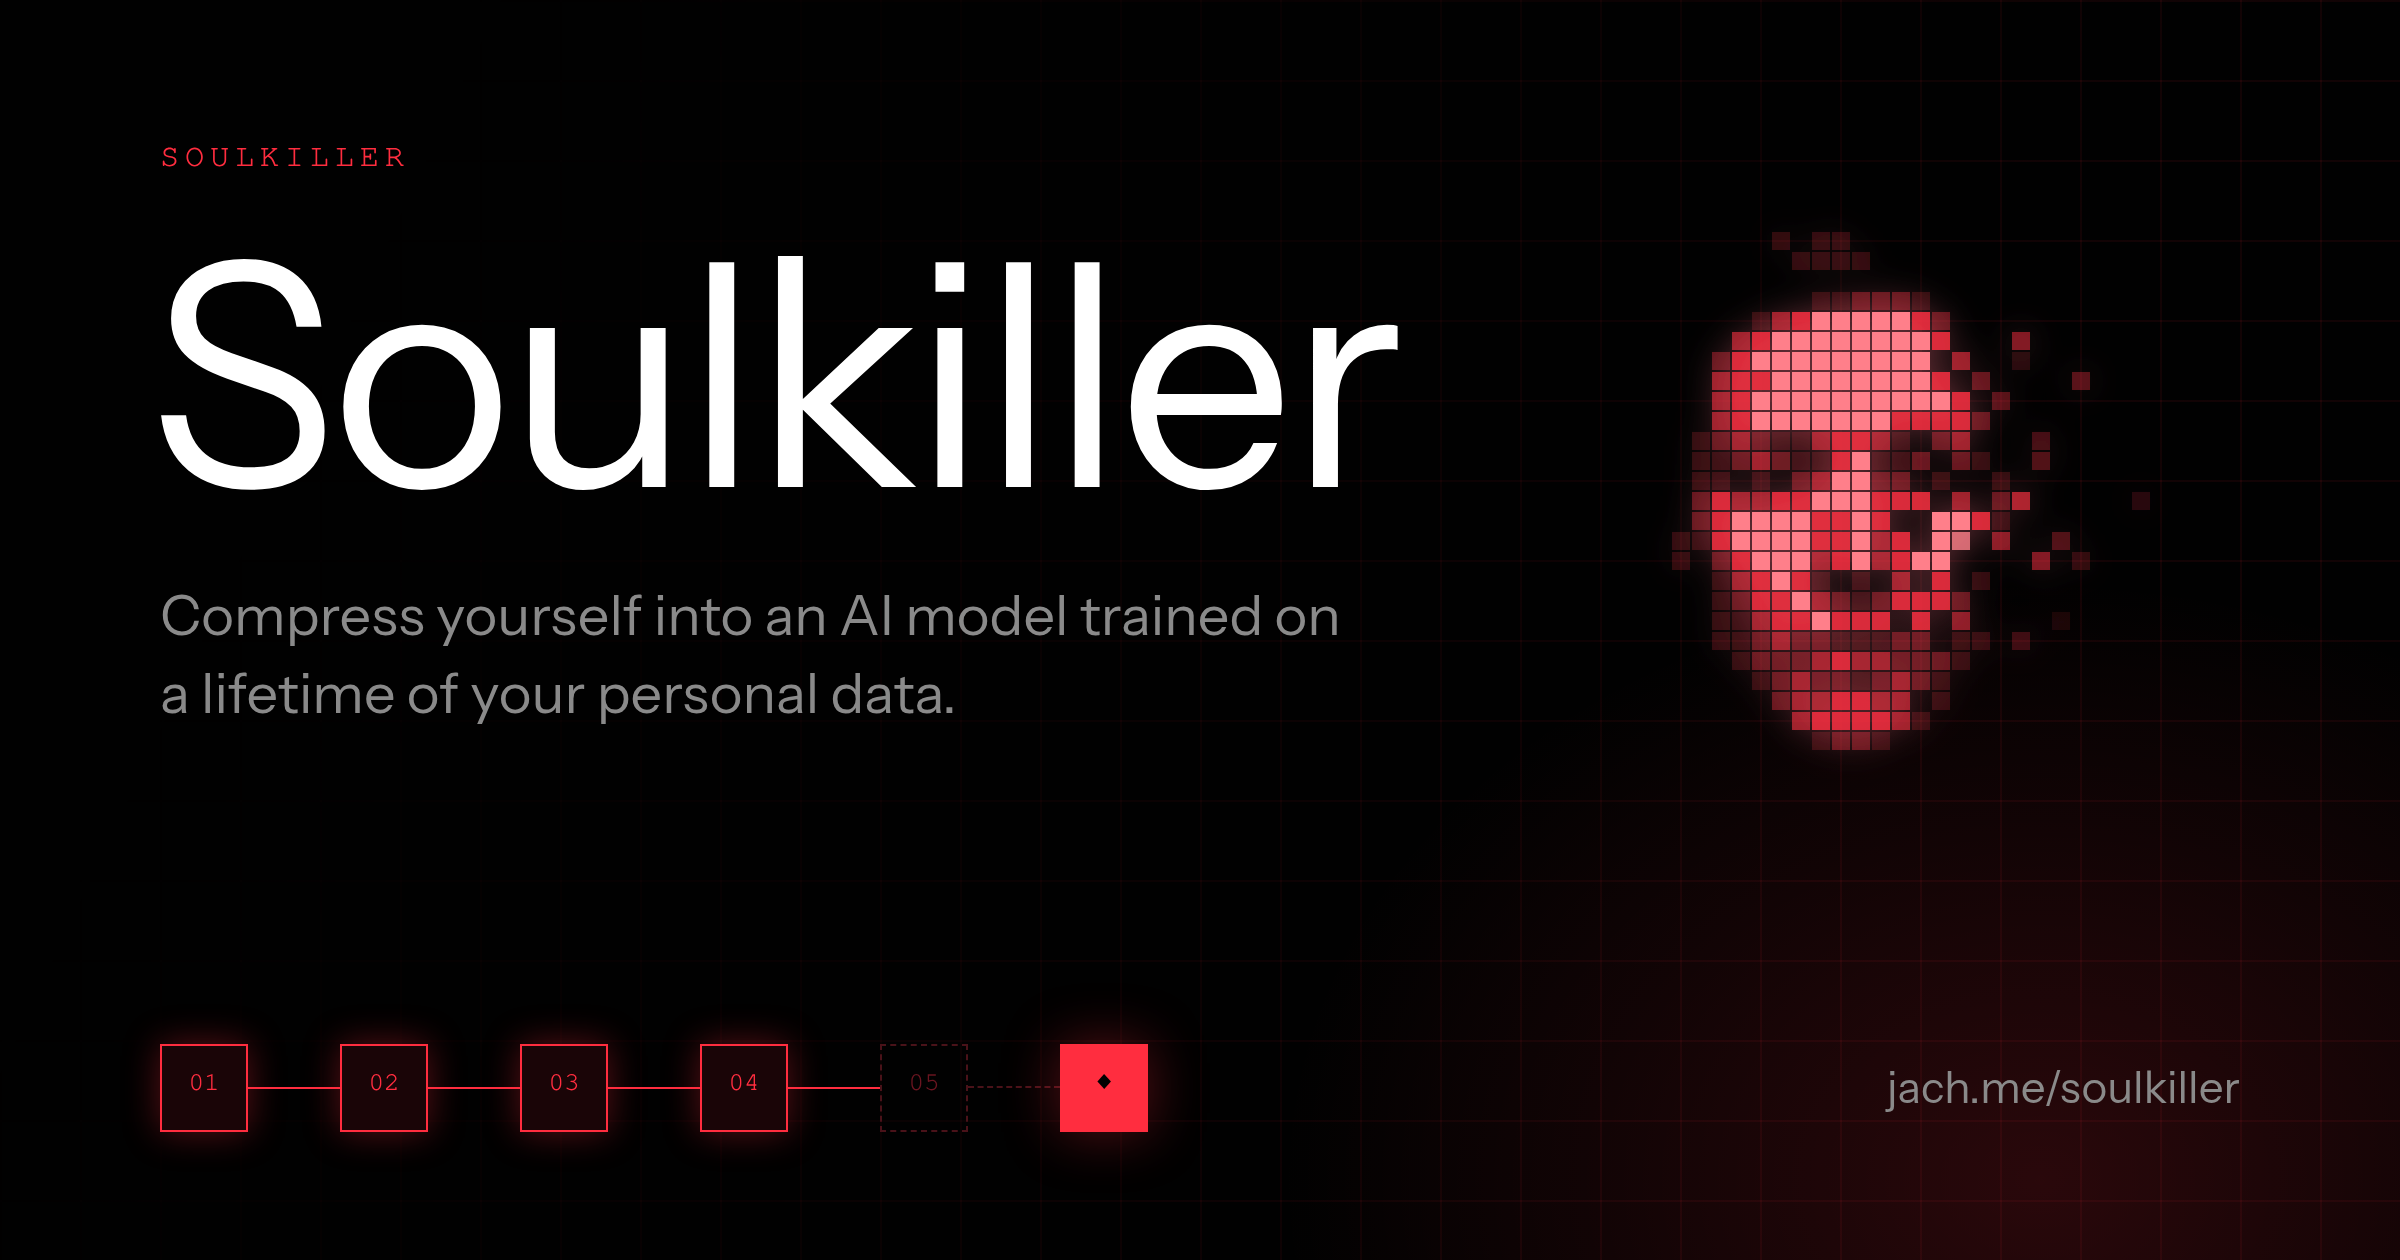
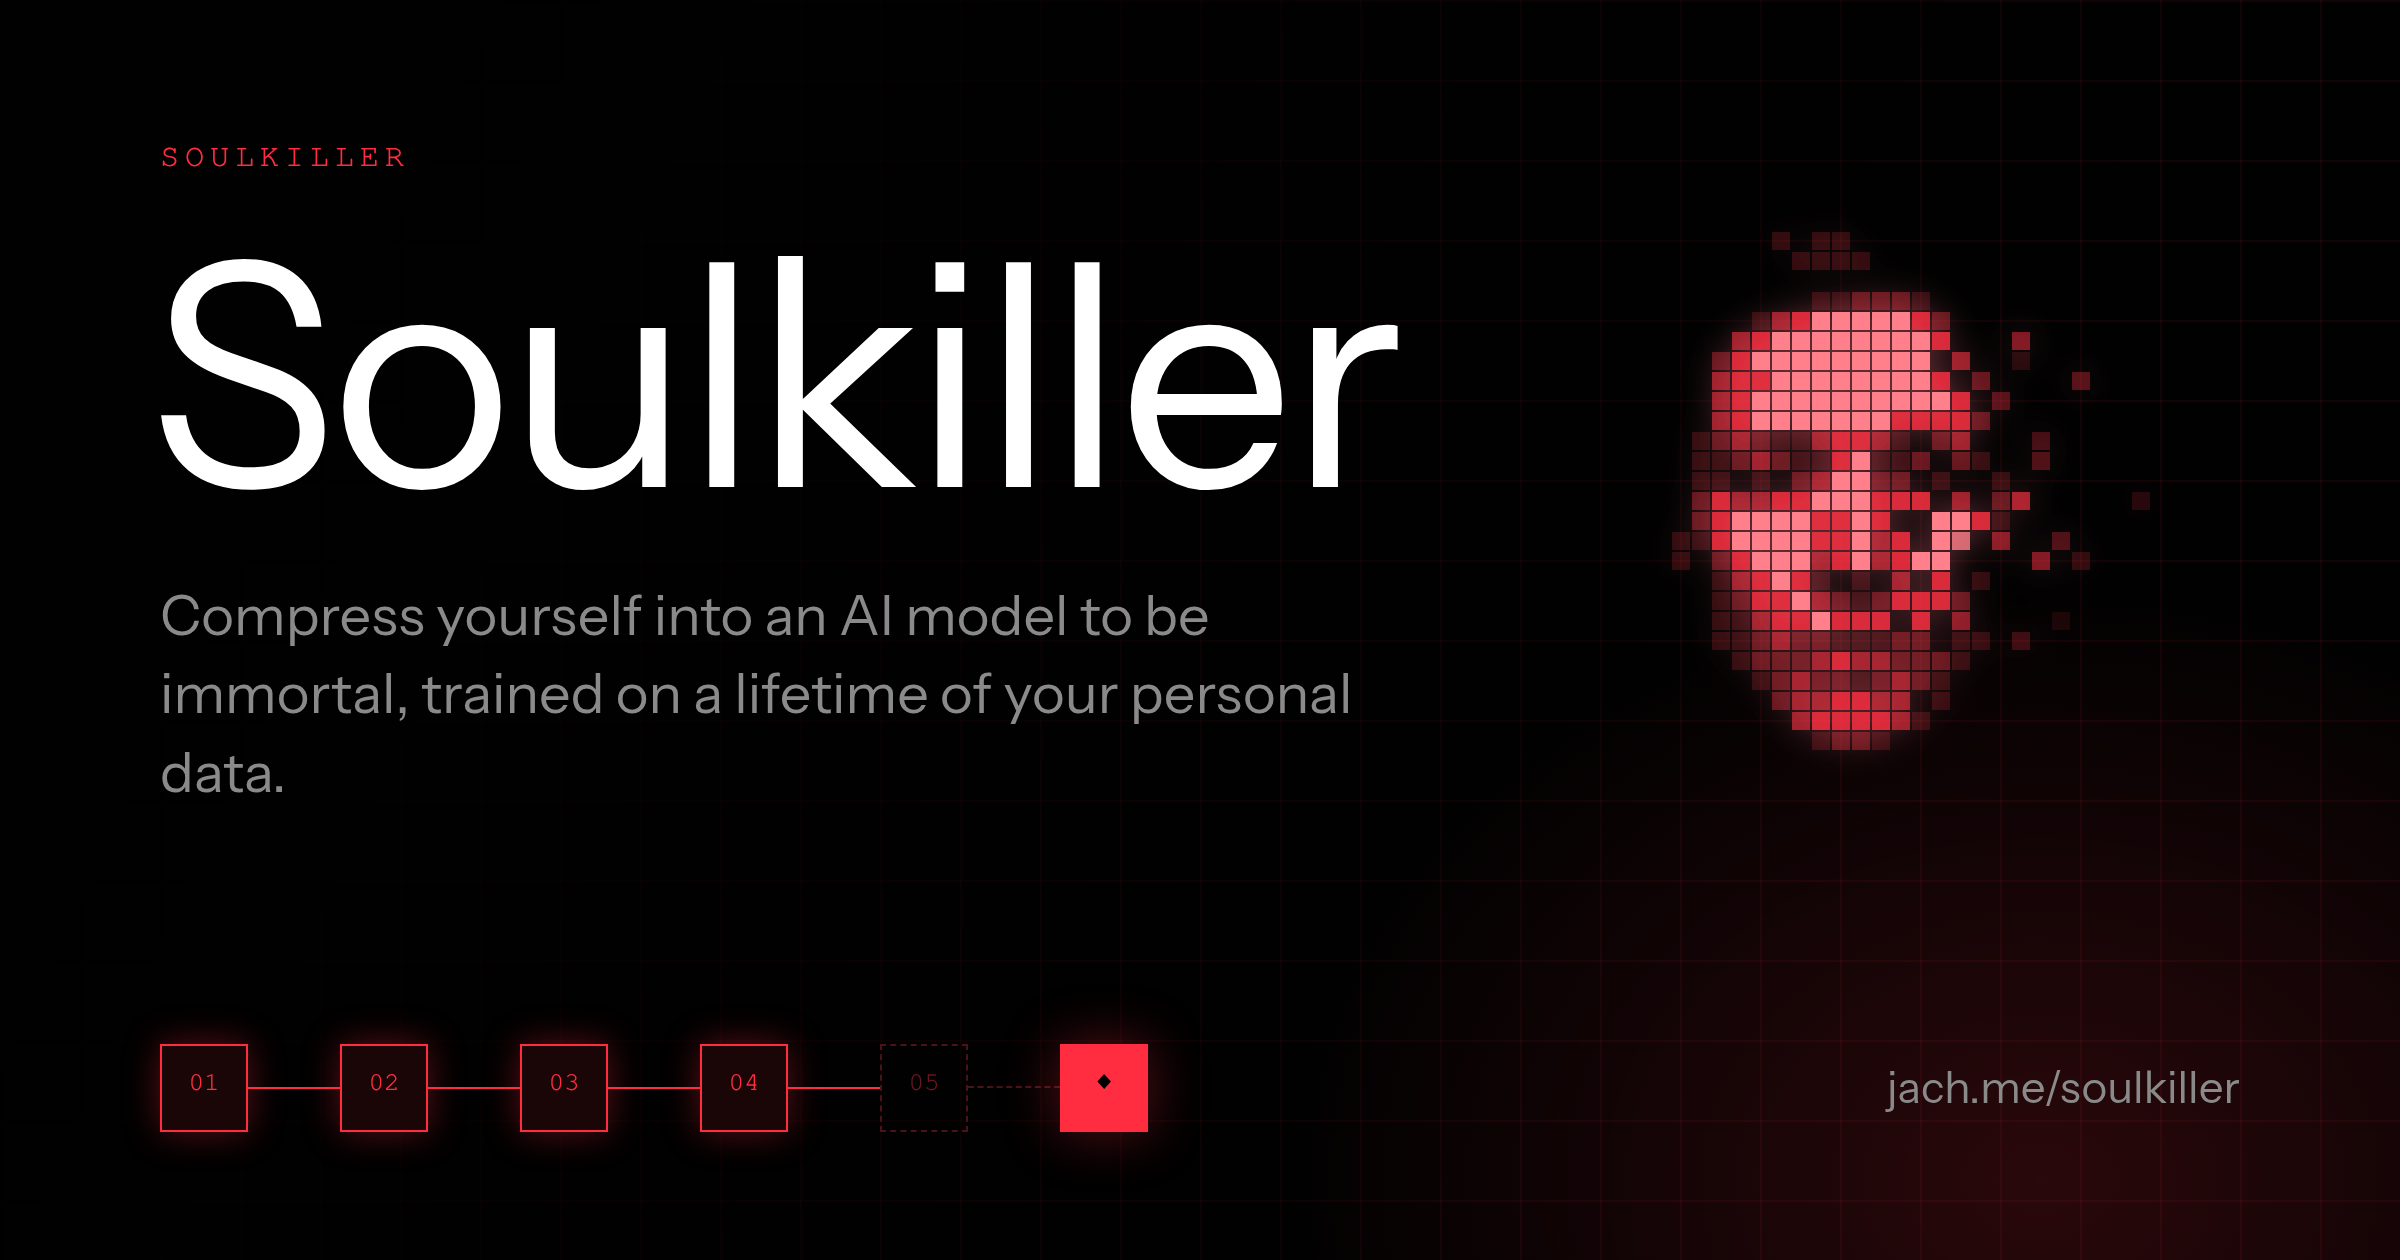
Soulkiller: compress yourself into an AI model to be immortal
Update the lede, meta descriptions and OG image.

Claude-Session: https://claude.ai/code/session_01MpBNpwSwfSJtph3YgahPHo

Changed region(s): [[0.0625, 0.4643, 0.5625, 0.65]]

diff --git a/src/soulkiller/index.html b/src/soulkiller/index.html
@@ -3,15 +3,15 @@
   <head>
     <title>Soulkiller</title>
     <meta charset="utf-8" />
-    <meta name="description" content="Soulkiller: compress yourself into an AI model trained on a lifetime of your personal data." />
+    <meta name="description" content="Soulkiller: compress yourself into an AI model to be immortal, trained on a lifetime of your personal data." />
     <meta property="og:type" content="website" />
     <meta property="og:url" content="https://jach.me/soulkiller/" />
     <meta property="og:title" content="Soulkiller" />
-    <meta property="og:description" content="Compress yourself into an AI model trained on a lifetime of your personal data." />
+    <meta property="og:description" content="Compress yourself into an AI model to be immortal, trained on a lifetime of your personal data." />
     <meta property="og:image" content="https://jach.me/soulkiller/og.png" />
     <meta property="og:image:width" content="2400" />
     <meta property="og:image:height" content="1260" />
-    <meta property="og:image:alt" content="Soulkiller: Compress yourself into an AI model trained on a lifetime of your personal data." />
+    <meta property="og:image:alt" content="Soulkiller: Compress yourself into an AI model to be immortal, trained on a lifetime of your personal data." />
     <meta name="twitter:card" content="summary_large_image" />
     <meta name="viewport" content="width=device-width, initial-scale=1.0" />
     <meta name="theme-color" content="#010101" />
@@ -26,7 +26,7 @@
         <h1>Soulkiller</h1>
         <div class="intro">
           <p class="lede">
-            Compress yourself into an AI Model trained on lifetime personal data from Gmail, Calendar,
+            Compress yourself into an AI model to be immortal, trained on lifetime personal data from Gmail, Calendar,
             Drive, YouTube, Chrome, Messenger, Instagram, WhatsApp, Telegram, X, LinkedIn, Reddit,
             notes and git history.
           </p>

diff --git a/og/soulkiller.html b/og/soulkiller.html
@@ -36,7 +36,7 @@
   <div class="glow"></div>
   <div class="label">SOULKILLER</div>
   <h1>Soulkiller</h1>
-  <p class="lede">Compress yourself into an AI model trained on a lifetime of your personal data.</p>
+  <p class="lede">Compress yourself into an AI model to be immortal, trained on a lifetime of your personal data.</p>
   <img class="logo" src="../src/soulkiller/logo-mark.svg" alt="">
   <div class="steps">
     <div class="node">01</div><div class="wire"></div>
